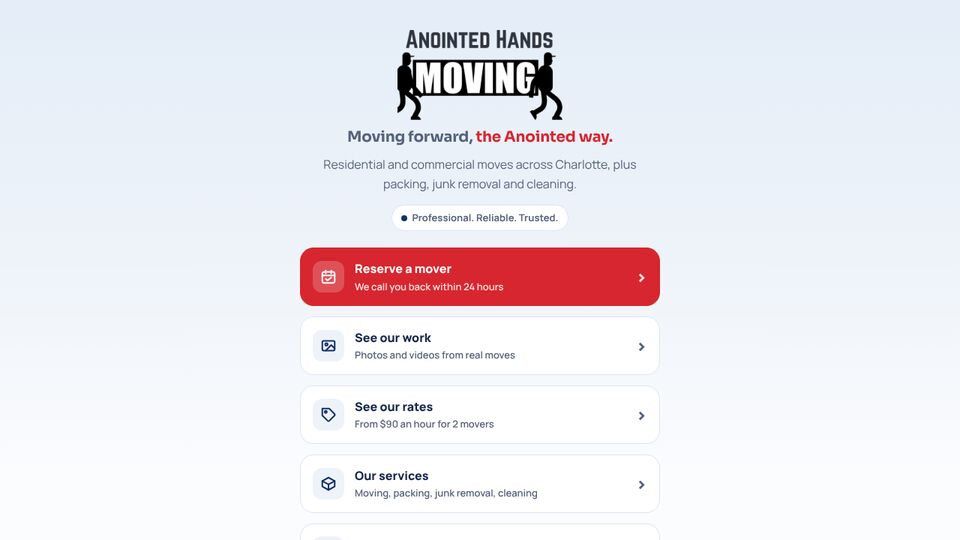
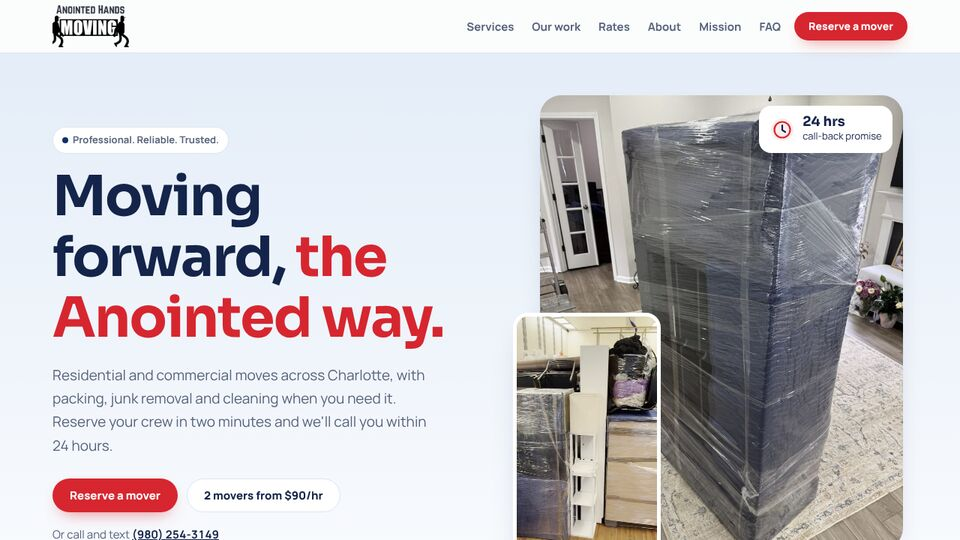
Web: update Anointed Hands card for its new one-page site
Claude-Session: https://claude.ai/code/session_018ST13gAKs9r8GwxqyDxrsm

diff --git a/web/index.html b/web/index.html
@@ -95,7 +95,7 @@
       <button class="btn light" type="button" data-open="consult" data-preset="Stream Script">Book a consult</button>
     </div></div></div></section><section class="steps" style="--deep:#138B96">
   <div class="wrap"><h2 class="t">How it works.</h2><ol><li><span class="mono">Step 1</span><h3>Consult</h3><p>A free 30-minute call about what you need.</p></li><li><span class="mono">Step 2</span><h3>Design</h3><p>A mockup to react to before anything is built.</p></li><li><span class="mono">Step 3</span><h3>Build</h3><p>Hand-coded, tested on phones first.</p></li><li><span class="mono">Step 4</span><h3>Launch</h3><p>Domain, hosting and analytics set up and handed over.</p></li></ol></div>
-</section><section class="block"><div class="wrap"><h2 class="t">Recent work.</h2><div class="works"><a href="https://www.mrdistort.com" target="_blank" rel="noopener" class="work" style="--c:#E2672A"><img class="shot" src="/assets/work/mrdistort.jpg" alt="Screenshot of the mrdistort.com home page" width="960" height="540" loading="lazy"><h3>mrdistort.com</h3><p>Creator hub for Mr. Distort</p></a><a href="https://rae-aligned.netlify.app/" target="_blank" rel="noopener" class="work" style="--c:#3FD3E0"><img class="shot" src="/assets/work/rae-aligned.jpg" alt="Screenshot of the Rae Aligned home page" width="960" height="540" loading="lazy"><h3>Rae Aligned</h3><p>Strategic services and notary site</p></a><a href="https://anointed-hands.netlify.app/" target="_blank" rel="noopener" class="work" style="--c:#EF5A60"><img class="shot" src="/assets/work/anointed-hands.jpg" alt="Screenshot of the Anointed Hands Moving home page" width="960" height="540" loading="lazy"><h3>Anointed Hands Moving</h3><p>Link page for a Charlotte moving company</p></a></div></div></section><section class="others">
+</section><section class="block"><div class="wrap"><h2 class="t">Recent work.</h2><div class="works"><a href="https://www.mrdistort.com" target="_blank" rel="noopener" class="work" style="--c:#E2672A"><img class="shot" src="/assets/work/mrdistort.jpg" alt="Screenshot of the mrdistort.com home page" width="960" height="540" loading="lazy"><h3>mrdistort.com</h3><p>Creator hub for Mr. Distort</p></a><a href="https://rae-aligned.netlify.app/" target="_blank" rel="noopener" class="work" style="--c:#3FD3E0"><img class="shot" src="/assets/work/rae-aligned.jpg" alt="Screenshot of the Rae Aligned home page" width="960" height="540" loading="lazy"><h3>Rae Aligned</h3><p>Strategic services and notary site</p></a><a href="https://anointed-hands.netlify.app/" target="_blank" rel="noopener" class="work" style="--c:#EF5A60"><img class="shot" src="/assets/work/anointed-hands.jpg" alt="Screenshot of the Anointed Hands Moving home page" width="960" height="540" loading="lazy"><h3>Anointed Hands Moving</h3><p>One-page site for a Charlotte moving company</p></a></div></div></section><section class="others">
   <div class="wrap"><h2 class="t">More from Distorted Brands.</h2></div>
   <div class="others-list"><a href="/games/" style="--c:#FF4FA3;--bar:66"><img src="/assets/icons/distorted-games-icon-controller-black.svg" alt="" width="40" height="40"><span>Distorted Games</span><em class="mono">Press start. Get distorted.</em></a><a href="/mr-distort/" style="--c:#E2672A;--bar:94"><img src="/assets/icons/mr-distort-icon-microphone-black.svg" alt="" width="40" height="40"><span>Mr. Distort</span><em class="mono">Stay distorted.</em></a><a href="/bass/" style="--c:#B9A7F2;--bar:88"><img src="/assets/icons/distorted-bass-icon-bass-guitar-black.svg" alt="" width="40" height="40"><span>Distorted Bass</span><em class="mono">Built on the low end.</em></a><a href="/pours/" style="--c:#E8B84A;--bar:66"><img src="/assets/icons/distorted-pours-icon-martini-black.svg" alt="" width="40" height="40"><span>Distorted Pours</span><em class="mono">Mixed with intent.</em></a></div>
 </section></main>
